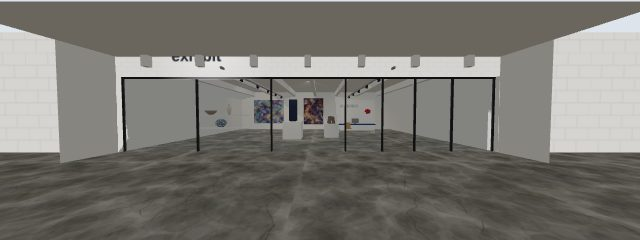
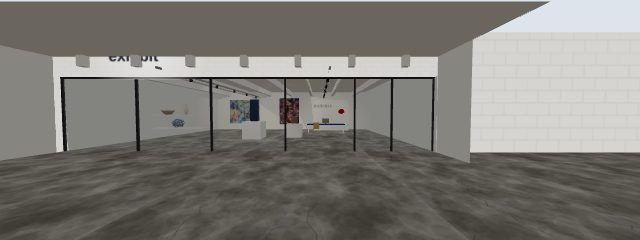
The Vitrine: open a doorway in the glass front
The glass front was closed: its only gap (x 3.2-4.6) left a 0.7 m
walkable corridor once the 0.4 m body margin is applied, and the
camera started at x 0.5 facing solid glass — the room could not be
entered in first person. The entrance is now a real 3 m doorway
(x 1.6-4.6): two glass panes removed, the centre mullion at x 3.2
removed (the mullions at 1.6 and 4.6 frame the door), the collision
gap widened to match (walkable passage 2.3 m), and the camera start
moved to x 3.1 so the visitor arrives facing the door. The glass
front still blocks everywhere else. Verified with a walk simulation
replaying the real collision data (enter, exit, strafe-in, 2.25 m
passage, glass still blocks) and the regenerated entrance thumbnail.

diff --git a/components/gallery-rooms.tsx b/components/gallery-rooms.tsx
@@ -1025,16 +1025,22 @@ function buildVitrine(group: Group): void {
   const sgm = new Mesh(new PlaneGeometry(3.4, 0.85), new MeshBasicMaterial({ map: sg, transparent: true }));
   sgm.position.set(-4, 4, 0.3);
   group.add(sgm);
-  // Glass front with mullions (the door gap is x 3.2…4.6).
+  // Glass front with mullions. The entrance is an open doorway
+  // x 1.6…4.6 (two panes removed, no glass, no centre mullion): the
+  // visitor arrives in front of it (camera start x 3.1) and walks
+  // straight in. The mullions at 1.6 and 4.6 frame the doorway.
   const gm = new MeshPhysicalMaterial({ color: 0xcfe0ea, transparent: true, opacity: 0.14, roughness: 0.05, metalness: 0, side: DoubleSide });
   const xs = [-8, -4.8, -1.6, 1.6, 3.2, 4.6, 6.2, 8];
   for (let i = 0; i < xs.length - 1; i++) {
     const a = xs[i];
     const b = xs[i + 1];
-    if (a === 3.2 && b === 4.6) continue;
+    if (a >= 1.6 && b <= 4.6) continue;
     pl(b - a, 3.2, gm, (a + b) / 2, 1.6, 0);
   }
-  for (const x of xs) bx(0.06, 3.2, 0.1, gMat(0x8a8d92, 0.4, 0.7), x, 1.6, 0, false);
+  for (const x of xs) {
+    if (x === 3.2) continue;
+    bx(0.06, 3.2, 0.1, gMat(0x8a8d92, 0.4, 0.7), x, 1.6, 0, false);
+  }
   bx(16, 0.12, 0.14, gMat(0x8a8d92, 0.4, 0.7), 0, 3.2, 0, false);
   // Interior shell.
   const wm = gMat(0xf5f4f0, 0.95);

diff --git a/lib/gallery-defs.ts b/lib/gallery-defs.ts
@@ -534,13 +534,17 @@ const GALLERY_DEFS: Record<string, GalleryDef> = {
     floorCenterZ: -6,
     background: "#dde4ec",
     environment: false,
-    cameraStart: { x: 0.5, y: 1.6, z: 8, yaw: 0, pitch: -0.03 },
+    cameraStart: { x: 3.1, y: 1.6, z: 8, yaw: 0, pitch: -0.03 },
     bounds: { minX: -14, maxX: 14, minZ: -11.5, maxZ: 12 },
     walkSpeed: 3,
     blocks: [
       rectBlock(8.6, 40, -13, 0),
       rectBlock(-40, -8.6, -13, 0),
-      rectBlock(-20, 3.15, -0.3, 0.3),
+      // The glass front at z = 0: the entrance is the open doorway
+      // x 1.6…4.6 (two panes removed, see buildVitrine) — the
+      // collision gap matches it, so the visitor can walk in and out.
+      // With the 0.4 m body margin the walkable passage is 2.3 m wide.
+      rectBlock(-20, 1.55, -0.3, 0.3),
       rectBlock(4.65, 20, -0.3, 0.3),
       rectBlock(-8.6, -7.7, -13, 0),
       rectBlock(7.7, 8.6, -13, 0),
